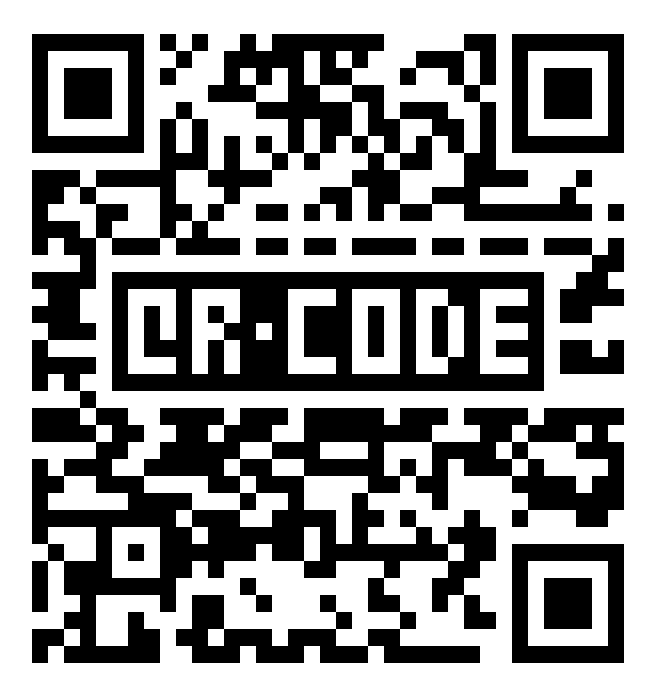
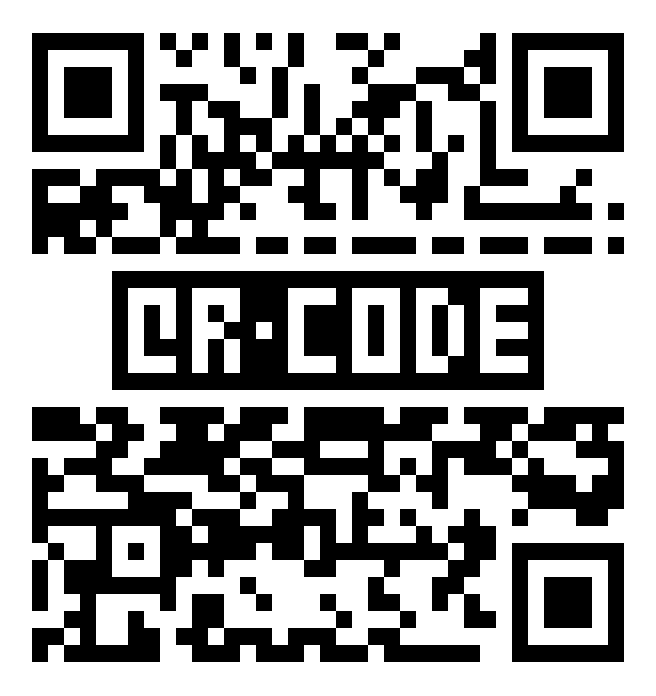
Tweak README qrcode example

diff --git a/README.md b/README.md
@@ -38,6 +38,6 @@ iex> QRCode.render2(data)
 
 3. Draw a custom pattern by changing bits in the second parameter.
 ```
-iex> QRCode.encode("https://github.com/sunboshan/qrcode", <<0b110110101010110101101101101010101101011010110110101010110110100101111101101011010110101011101010110101011010101011011101010101010001010100010101000101010101000101010001010101000001010011010101101110100111010101110111011111110101011101010111010111110101100010101011000101000111000110011001100110011111100111011011000111011001100010101101011110000110010001100100011111100101011001000110010011100101100111101010111100000101010101010101010101010101010101010101010101010101000111010101101111001101010011011101000101000101000101010100010100010100010101000101000101110101010101101010000000000000000000000000::600>>) |> QRCode.render2()
+iex> QRCode.encode("https://github.com/sunboshan/qrcode", <<0b110110101010110101101101101010101101011010110110101010110110100101111101101011010110101011101010110101011010101011011101010101010001010100010101000101010101000101010001010101000001010001010100000000000111010101110111011111110101011101010111010111110101100000000000000000000111000110011001100110011111100111011011000111011001100000000000000000000110010001100100011111100101011001000110010011100101100000000000000000000101010101010101010101010101010101010101010101010101000000000001101111001101010011011101000101000101000101010100010100010100010101000101000101110101010101101010000000000000000000000000::600>>) |> QRCode.render2()
 ```
 <img src="priv/qrcode.png" width="300">
